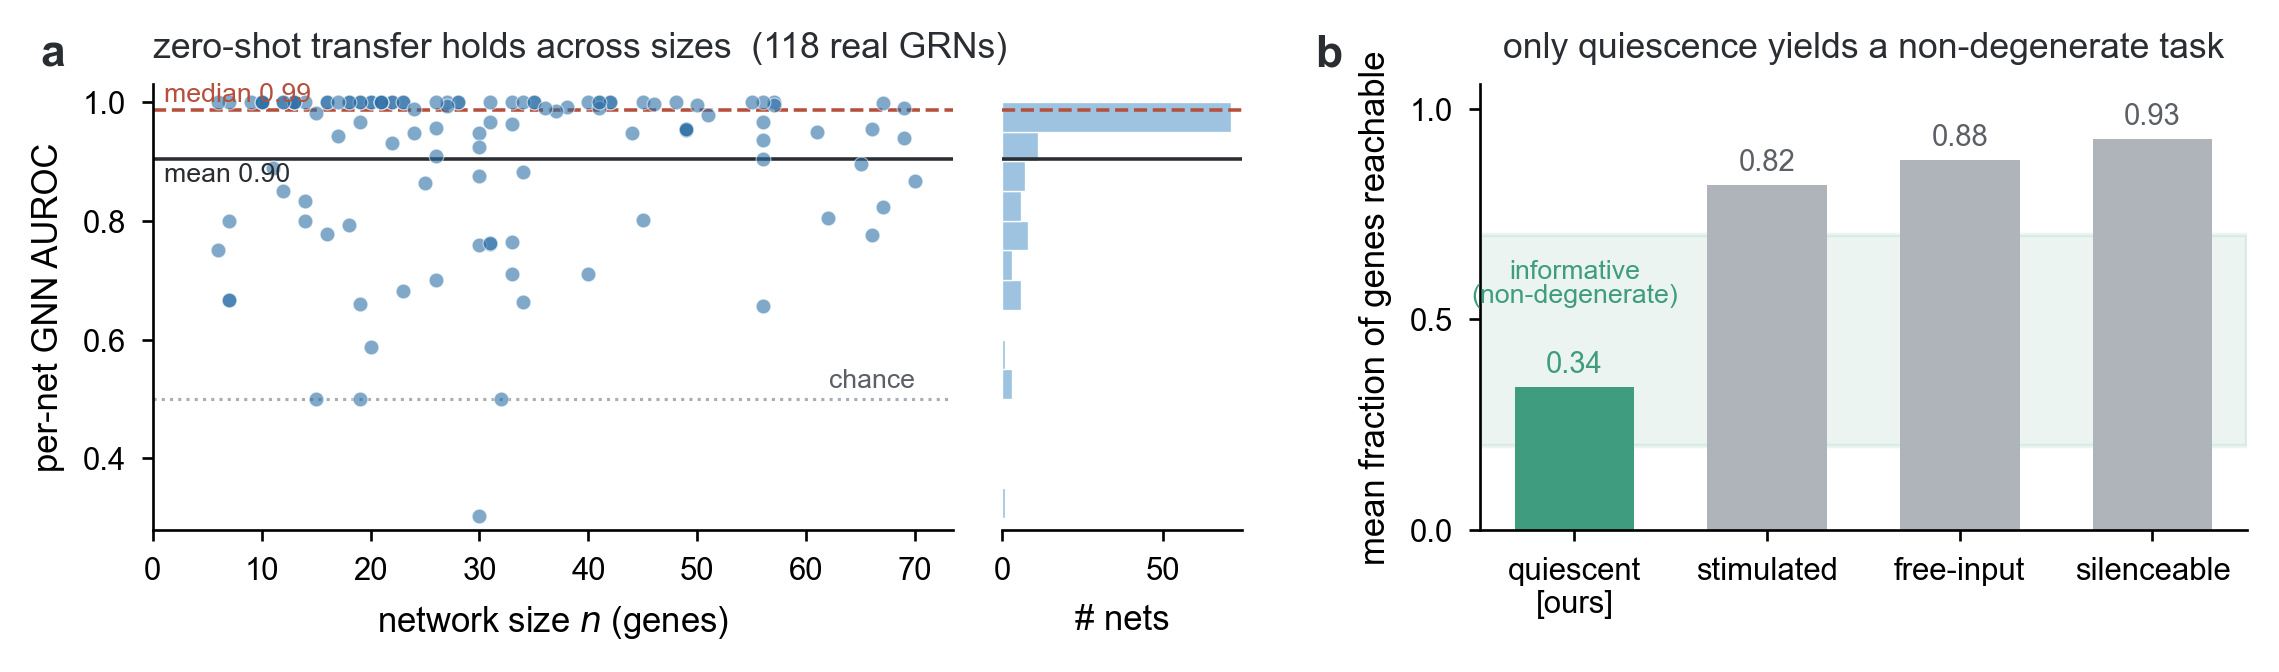
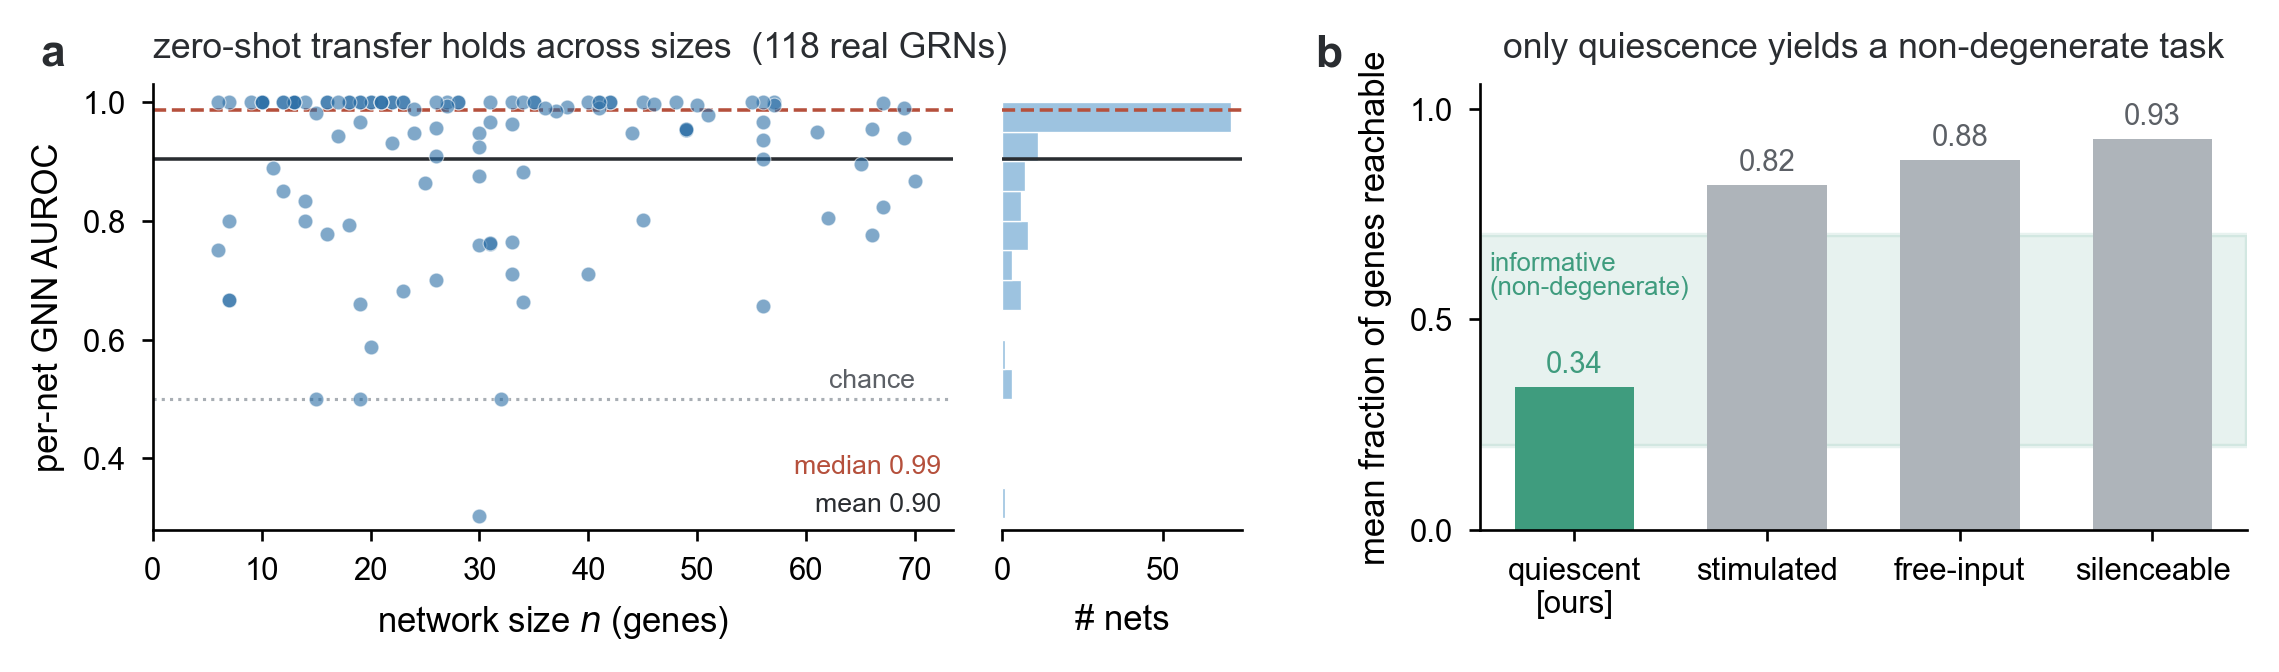
Fix figure readability: remove text-on-data overlaps in Fig2c (drop in-plot legend), Fig3a (move median/mean labels to empty corner), Fig3b (reposition band label)

diff --git a/make_figures_nature2.py b/make_figures_nature2.py
@@ -104,8 +104,6 @@ def composite_learn():
     ax.set_ylim(0.4, 1.04); ax.set_yticks([0.4, 0.6, 0.8, 1.0])
     ax.set_ylabel("per-node reach. AUROC")
     ax.set_title("sign-aware propagation,\nnot canalization", color=N["ink"])
-    ax.text(0.02, 0.07, "open = in-distribution   filled = zero-shot transfer", fontsize=5.6,
-            color=N["grey_d"], transform=ax.transAxes)
     panel(ax, "c", x=-0.24)
 
     save(fig, "fig_composite_learn")
@@ -126,9 +124,11 @@ def composite_transfer():
     axs.axhline(med, ls="--", lw=0.8, color=N["drop"], zorder=2)
     axs.axhline(mean, ls="-", lw=0.8, color=N["ink"], zorder=2)
     axs.axhline(0.5, ls=":", lw=0.7, color=N["chance"], zorder=2)
-    # direct labels in the empty left margin (smallest network is n=6)
-    axs.text(1.0, med + 0.006, f"median {med:.2f}", fontsize=6, color=N["drop"], va="bottom")
-    axs.text(1.0, mean - 0.006, f"mean {mean:.2f}", fontsize=6, color=N["ink"], va="top")
+    # direct labels in the empty bottom-right corner (no points there at high n)
+    axs.text(0.985, 0.115, f"median {med:.2f}", transform=axs.transAxes, ha="right",
+             va="bottom", fontsize=6, color=N["drop"])
+    axs.text(0.985, 0.03, f"mean {mean:.2f}", transform=axs.transAxes, ha="right",
+             va="bottom", fontsize=6, color=N["ink"])
     axs.annotate("chance", xy=(nn.max(), 0.5), xytext=(0, 1.5), textcoords="offset points",
                  fontsize=6, color=N["grey_d"], ha="right", va="bottom")
     axs.set_xlabel("network size $n$ (genes)"); axs.set_ylabel("per-net GNN AUROC")
@@ -147,9 +147,9 @@ def composite_transfer():
     conds = ["quiescent\n[ours]", "stimulated", "free-input", "silenceable"]
     base = [0.34, 0.82, 0.88, 0.93]
     cols = [N["good"], N["grey"], N["grey"], N["grey"]]
-    axb.axhspan(0.2, 0.7, color=N["good"], alpha=0.10, zorder=0)
-    axb.annotate("informative\n(non-degenerate)", xy=(0, 0.585), fontsize=6, color=N["good"],
-                 ha="center", va="center", linespacing=1.0)
+    axb.axhspan(0.2, 0.7, color=N["good"], alpha=0.12, zorder=0)
+    axb.text(-0.44, 0.605, "informative\n(non-degenerate)", fontsize=5.8, color=N["good"],
+             ha="left", va="center", linespacing=1.0)
     axb.bar(range(4), base, 0.62, color=cols)
     for i, b in enumerate(base):
         axb.text(i, b + 0.02, f"{b:.2f}", ha="center", va="bottom", fontsize=6.6,